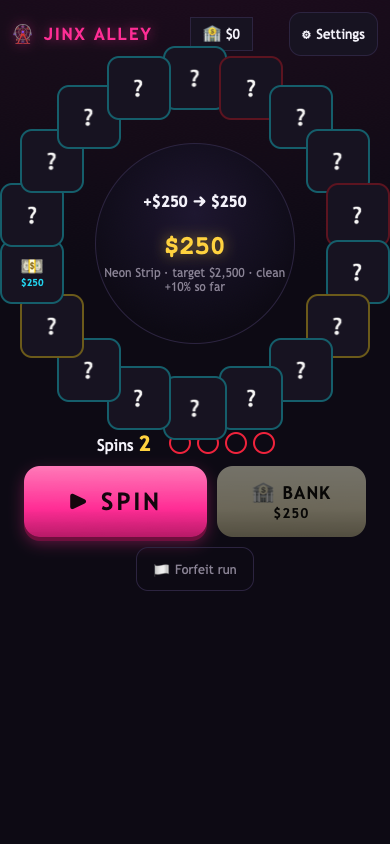
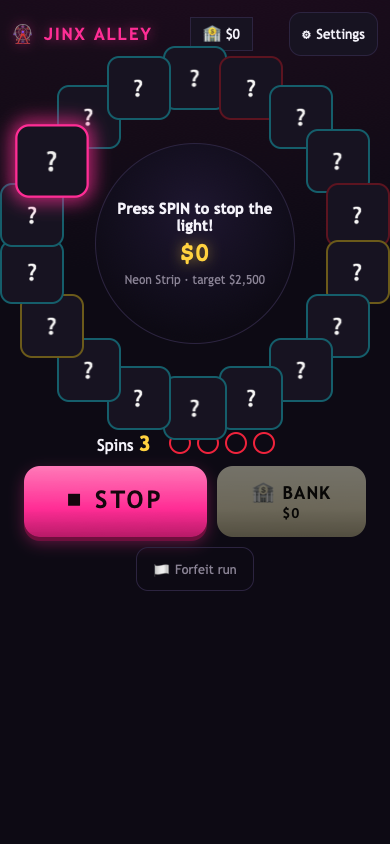
Skill-based spin: light slides continuously, press SPIN→STOP to land where you time it (seeded rhythm, 1-tile final hop); smoke test updated for stop-press flow

diff --git a/src/ui/game.ts b/src/ui/game.ts
@@ -32,6 +32,7 @@ export class GameScreen {
   private run: RunState;
   private tileEls: HTMLElement[] = [];
   private spinning = false;
+  private stopRequested = false;
   private forfeitArmed = false;
   private rng = mulberry32(randomSeed());
 
@@ -143,7 +144,10 @@ export class GameScreen {
     this.elSpinBtn = document.createElement('button');
     this.elSpinBtn.className = 'spin-btn';
     this.elSpinBtn.textContent = '▶ SPIN';
-    this.elSpinBtn.addEventListener('click', () => void this.spin());
+    this.elSpinBtn.addEventListener('click', () => {
+      if (this.spinning) this.stopRequested = true;
+      else void this.spin();
+    });
     this.elBankBtn = document.createElement('button');
     this.elBankBtn.className = 'bank-btn';
     this.elBankBtn.addEventListener('click', () => this.bank());
@@ -182,7 +186,7 @@ export class GameScreen {
     this.elBankBtn.innerHTML = `<span>🏦 BANK</span><span class="bank-amt">${fmt(s.cash)}</span>`;
     this.elBankBtn.classList.toggle('hot', s.cash >= this.zone.target * 0.5);
     this.elBankBtn.disabled = this.spinning || s.over || s.cash <= 0;
-    this.elSpinBtn.disabled = this.spinning || s.over || s.spinsLeft <= 0;
+    this.elSpinBtn.disabled = (!this.spinning && (s.over || s.spinsLeft <= 0));
     this.elInsBadge.classList.toggle('used', s.insuranceUsed);
     this.elAnchorBtn.disabled =
       this.spinning || s.over || !s.anchorAvailable || s.anchorUsed || !s.snapshot;
@@ -196,32 +200,44 @@ export class GameScreen {
     setTimeout(() => f.remove(), 600);
   }
 
-  /** Sliding-light spin: decelerating steps around the ring, land on random tile. */
+  /** Press-your-luck spin: light slides continuously; press SPIN again to stop it
+   *  where it is (with a short final hop). The board seed drives the rhythm;
+   *  the player's timing picks the tile. */
   private async spin(): Promise<void> {
     if (this.spinning || this.run.over || this.run.spinsLeft <= 0) return;
     this.spinning = true;
-    this.elCenterEvent.textContent = '';
+    this.stopRequested = false;
+    this.elCenterEvent.textContent = 'Press SPIN to stop the light!';
     this.elCenterEvent.className = 'center-event';
+    this.elSpinBtn.textContent = '⏹ STOP';
     this.syncHud();
 
     const n = this.run.board.tiles.length;
-    const target = Math.floor(this.rng() * n);
-    // total steps: 2-3 full laps + offset to target
-    const laps = 2 + Math.floor(this.rng() * 2);
-    const steps = laps * n + target;
-    const base = this.settings.reducedMotion ? 8 : 55;
-    for (let step = 0; step <= steps; step++) {
-      const idx = step % n;
-      this.tileEls.forEach((el, i) => el.classList.toggle('lit', i === idx));
-      if (!this.settings.reducedMotion) {
-        sounds.tick();
-        const t = step / steps;
-        await sleep(base + t * t * 260); // ease-out
-      }
-    }
-    this.tileEls.forEach((el) => el.classList.remove('lit'));
+    // Seeded rhythm: random start + random step interval (fast enough to feel skill-based)
+    let idx = Math.floor(this.rng() * n);
+    const interval = this.settings.reducedMotion ? 40 : 90 + Math.floor(this.rng() * 50);
+    this.tileEls.forEach((el, i) => el.classList.toggle('lit', i === idx));
+    sounds.tick();
 
-    await this.resolveLanding(target);
+    // Slide until the player requests a stop
+    while (!this.stopRequested) {
+      await sleep(interval);
+      if (this.stopRequested) break;
+      idx = (idx + 1) % n;
+      this.tileEls.forEach((el, i) => el.classList.toggle('lit', i === idx));
+      if (!this.settings.reducedMotion) sounds.tick();
+    }
+
+    // Final hop: 1 tile forward with a heavier tick so the stop feels physical
+    await sleep(this.settings.reducedMotion ? 40 : 220);
+    idx = (idx + 1) % n;
+    this.tileEls.forEach((el, i) => el.classList.toggle('lit', i === idx));
+    sounds.tick();
+    await sleep(this.settings.reducedMotion ? 60 : 320);
+
+    this.tileEls.forEach((el) => el.classList.remove('lit'));
+    this.elSpinBtn.textContent = '▶ SPIN';
+    await this.resolveLanding(idx);
     this.spinning = false;
     this.syncHud();
     if (this.run.over) this.finish();
